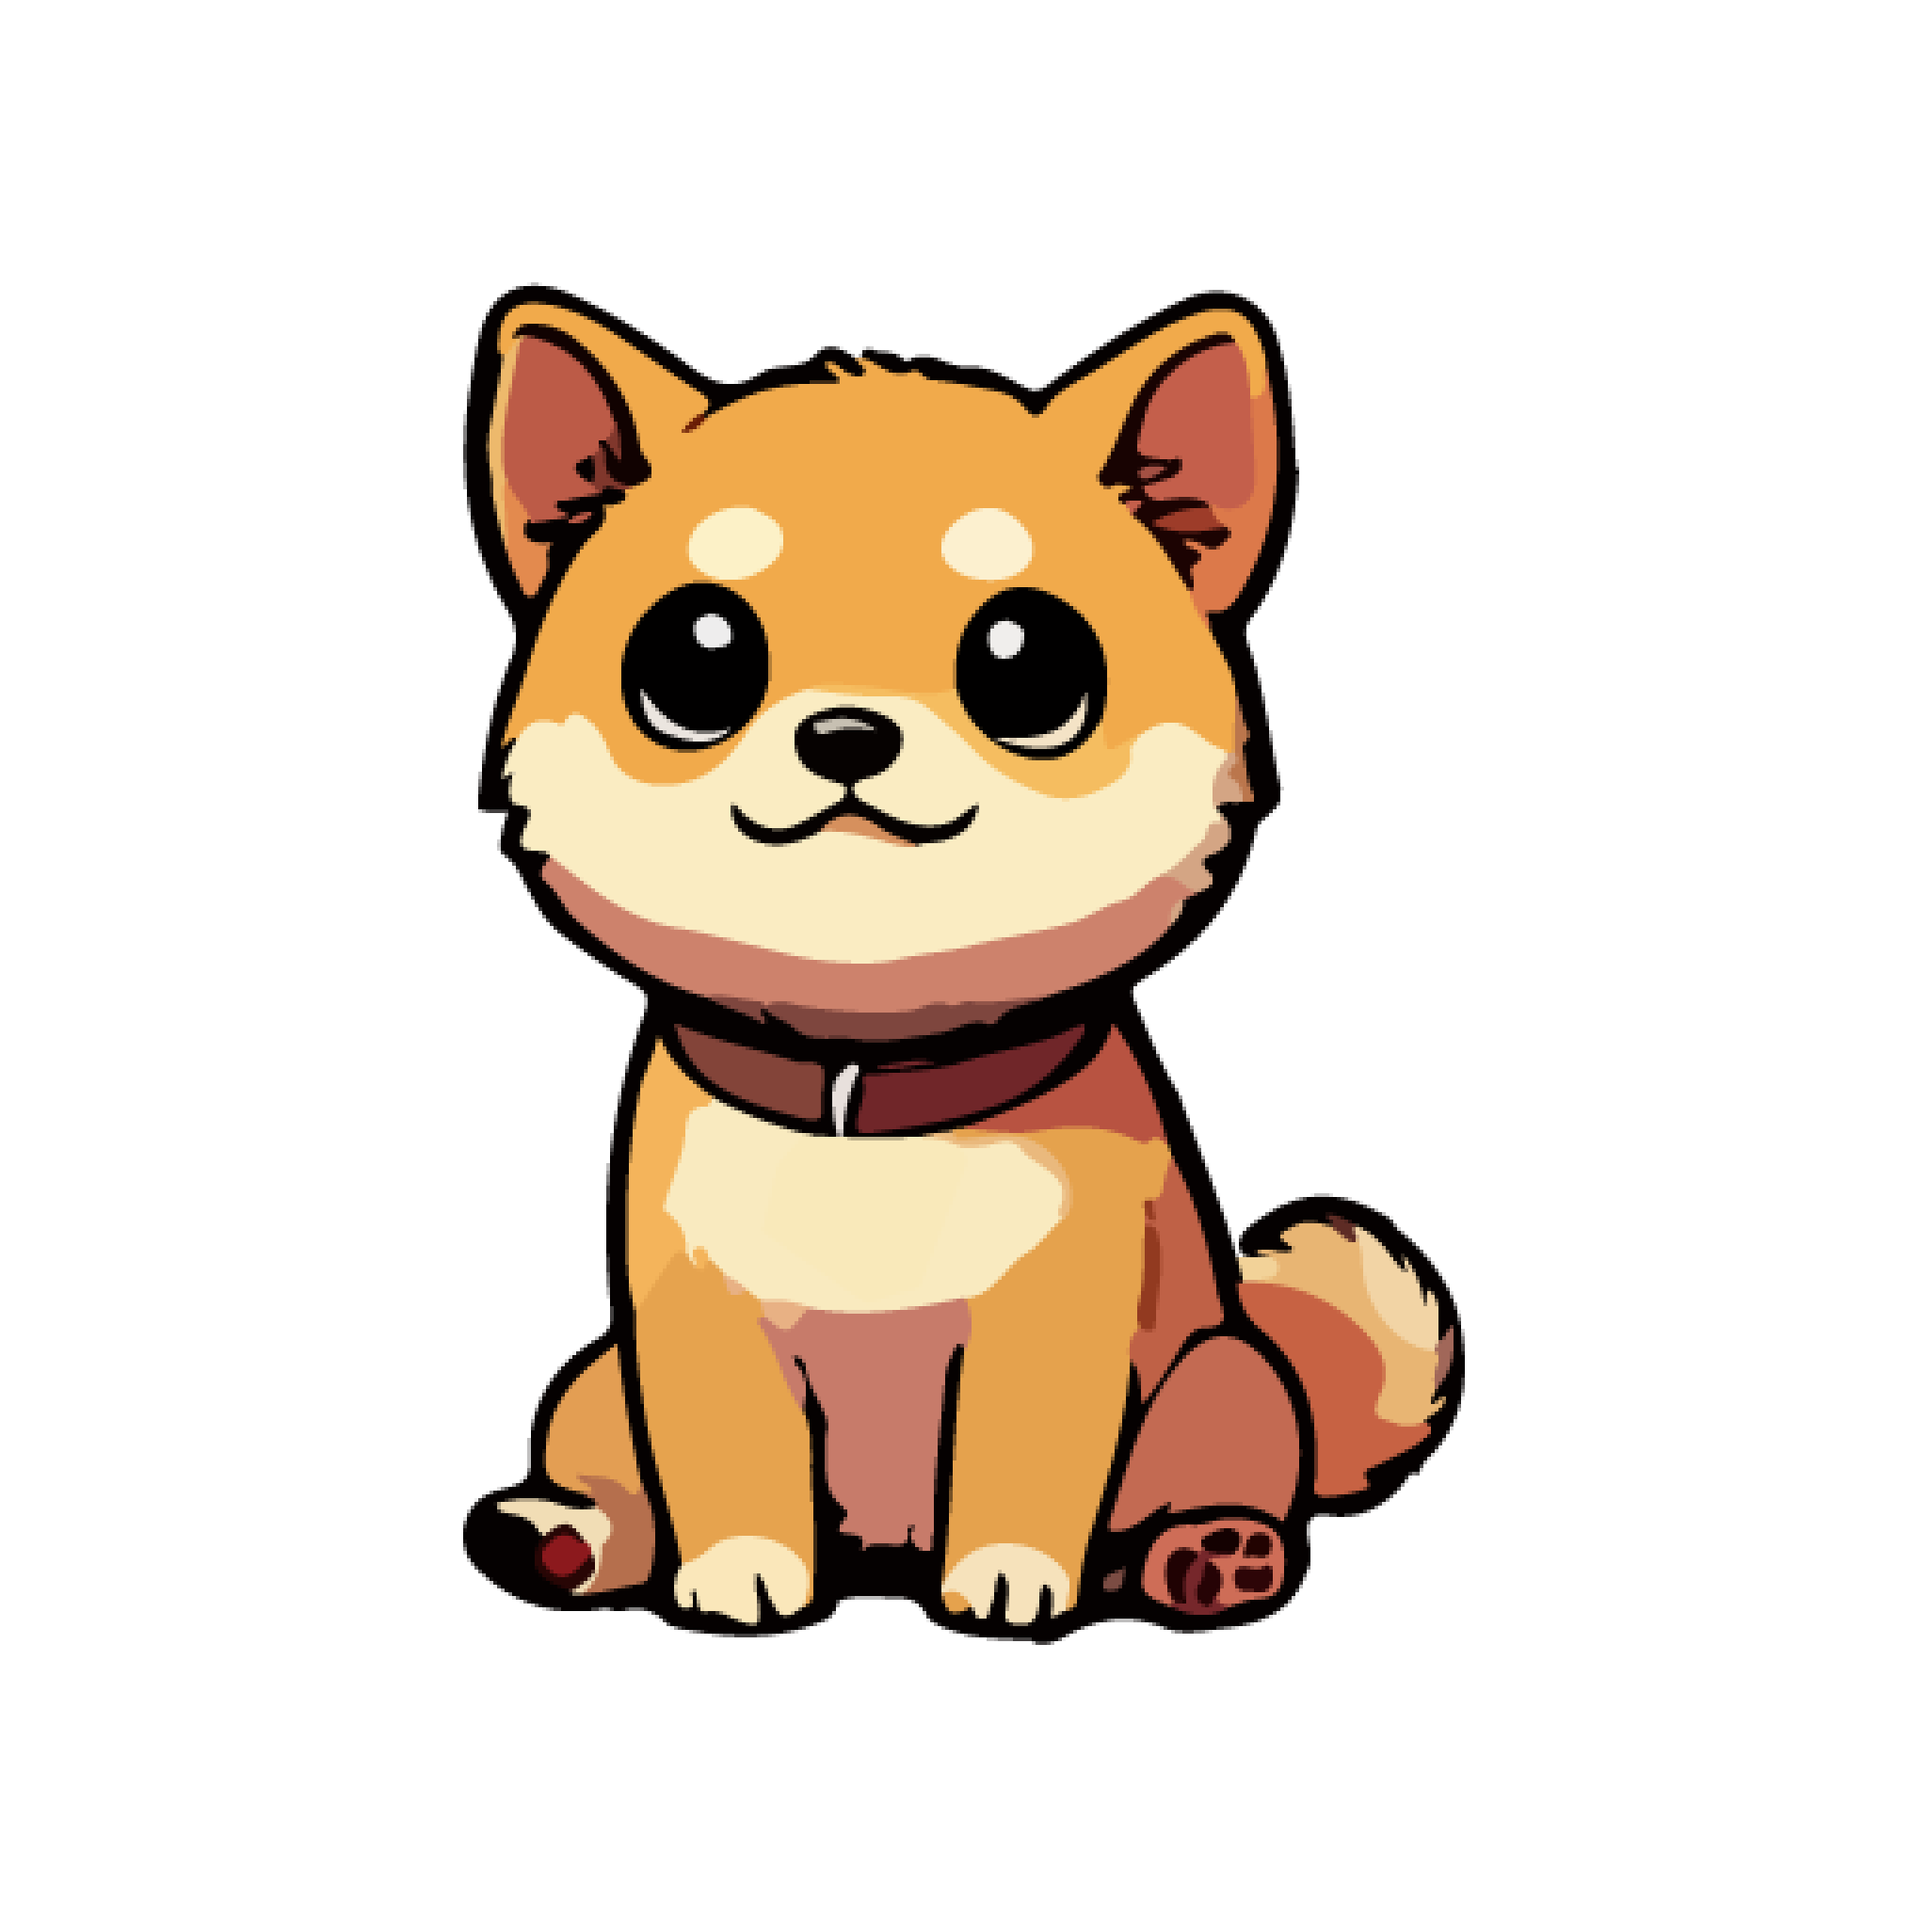
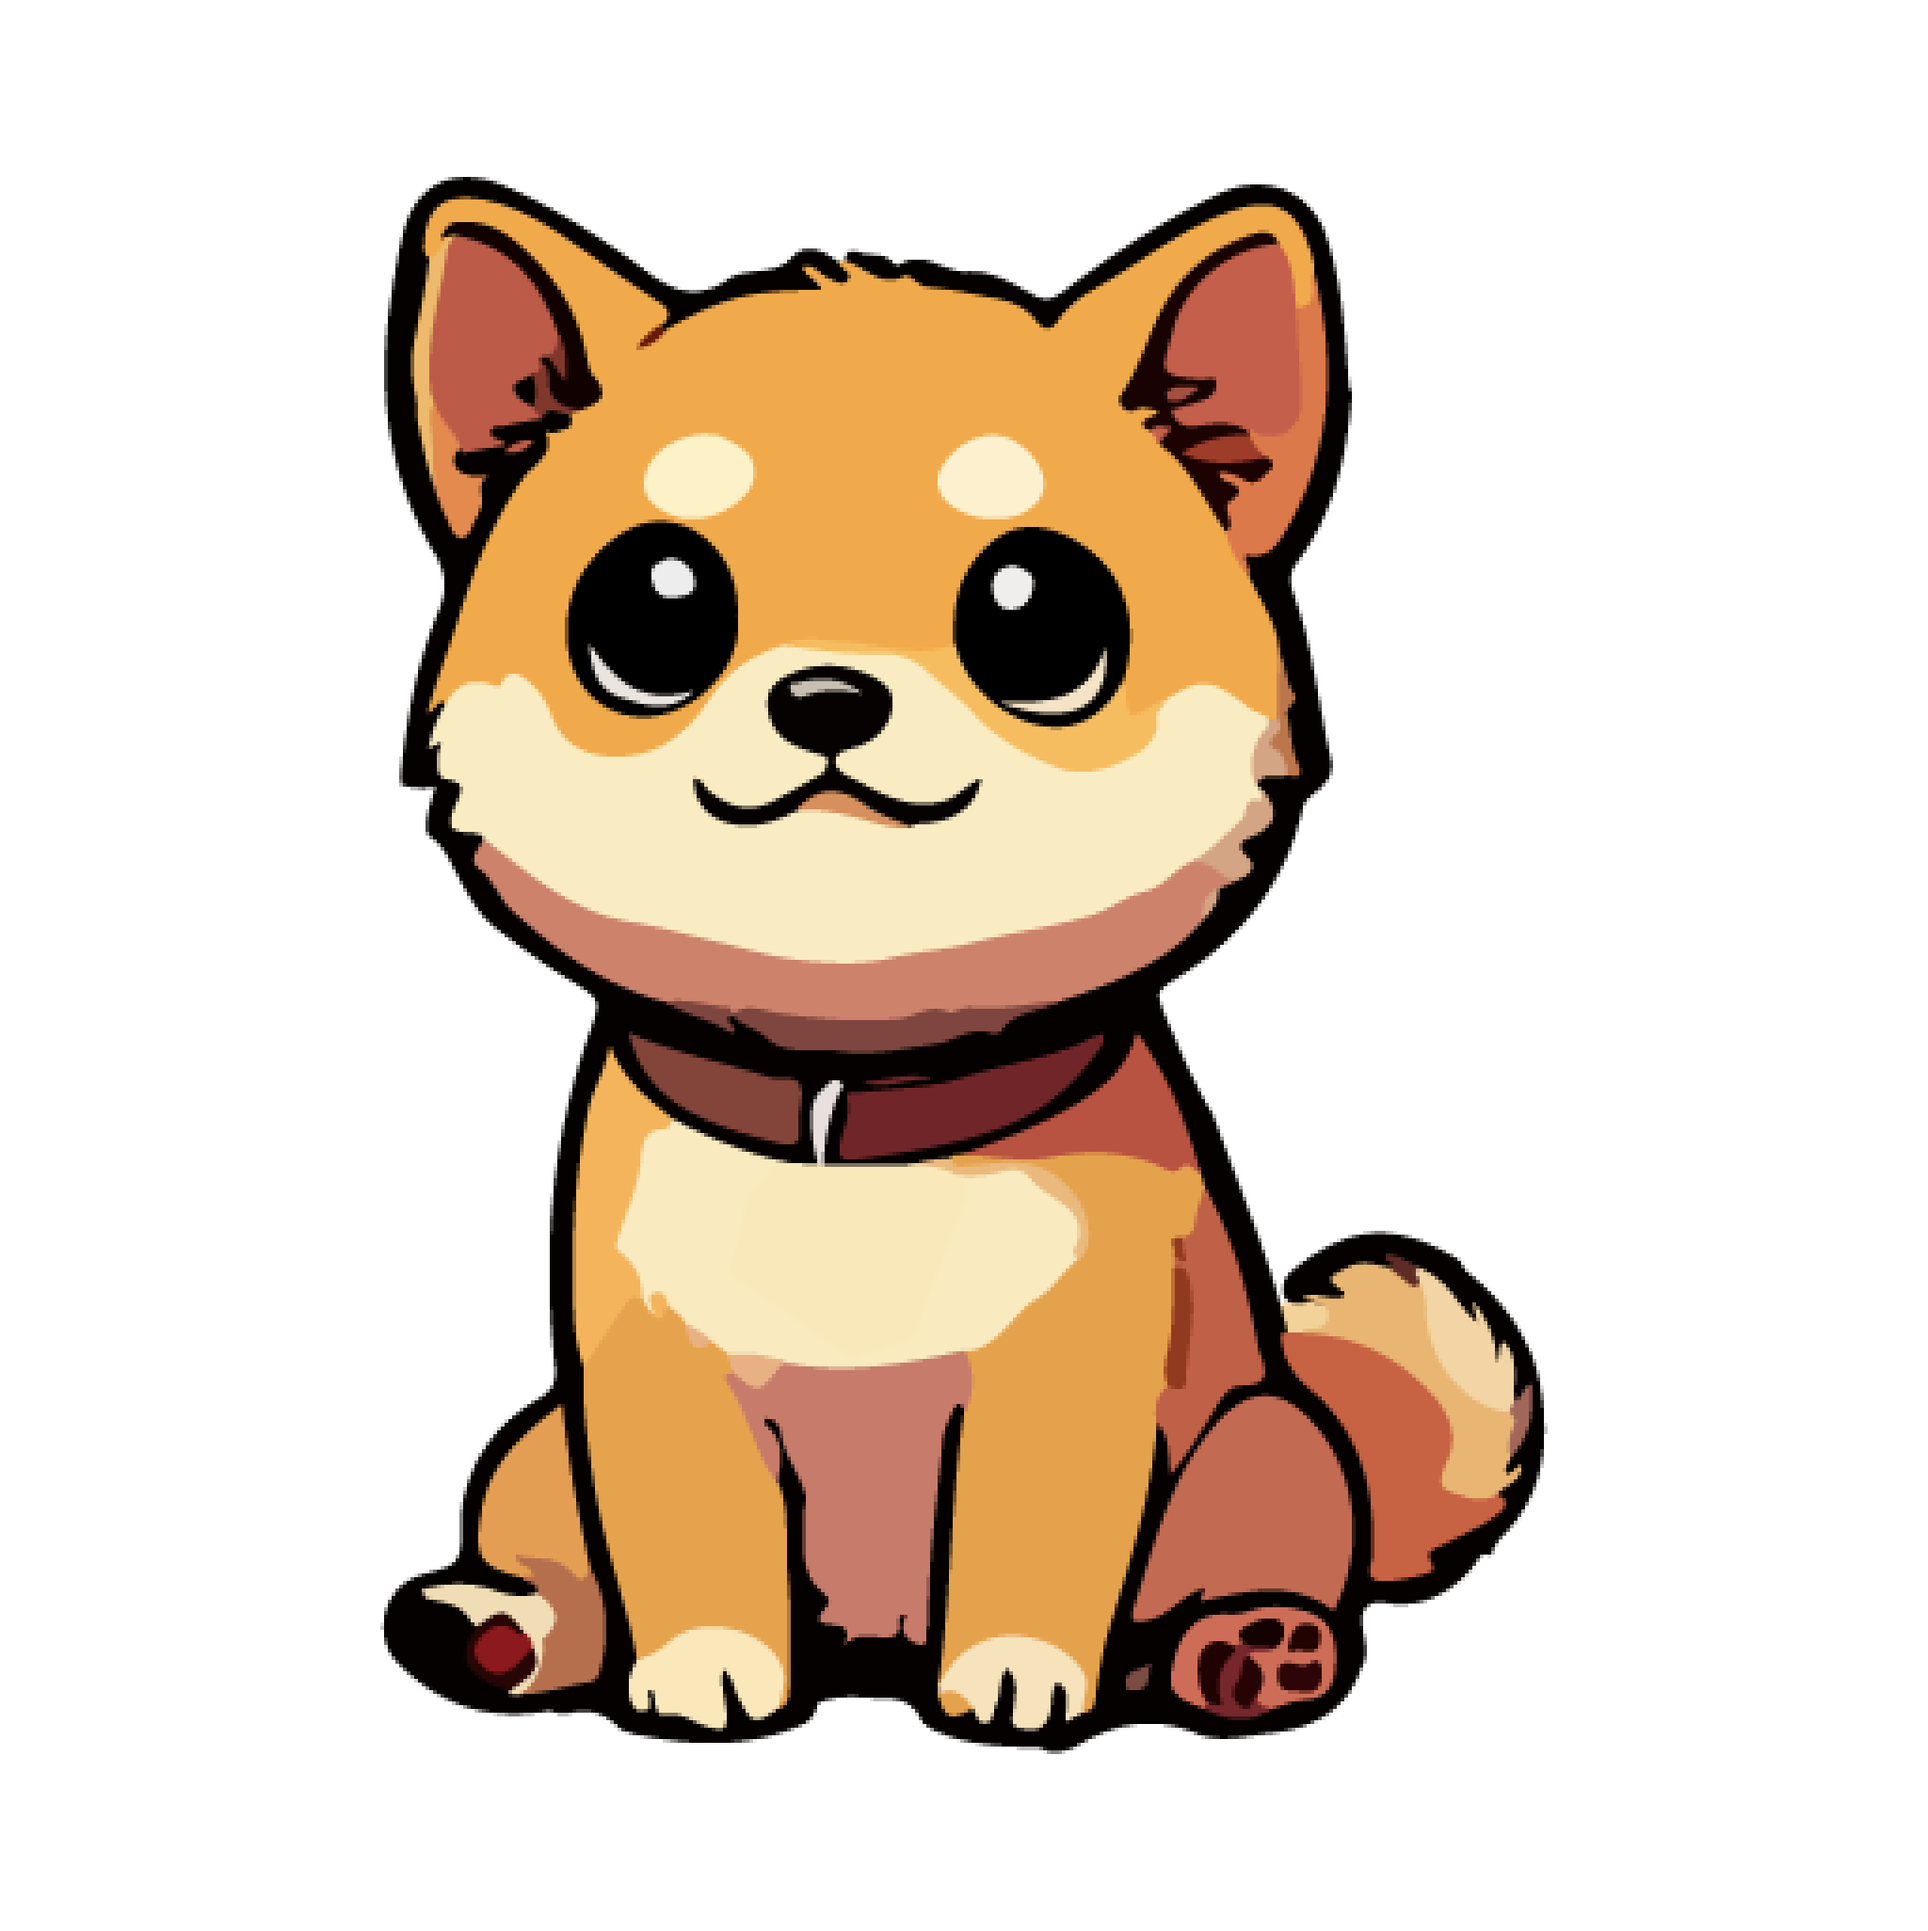
add charactor shadow

Changed region(s): [[0.1875, 0.0936, 0.8125, 0.9045]]

diff --git a/ic/src/pages/DiceEvent/index.tsx b/ic/src/pages/DiceEvent/index.tsx
@@ -126,8 +126,8 @@ const DiceEventPage: React.FC = () => {
           charactorImageSrc={charactorImageSrc}
           mainColorClassName={mainColorClassName}
         />
-        <div className="flex flex-col items-center justify-center w-48 h-36 md:w-40 md:h-44 relative prize-box overflow-visible z-10 gap-2">
-          <div className="absolute h-7 w-20 rounded-full border border-black bg-white flex items-center justify-center text-xs -top-4 z-20 font-medium box-border left-14 inset-2 ">
+        <div className="flex flex-col items-center justify-center w-48 h-36 md:w-96 md:h-44 relative prize-box overflow-visible z-10 gap-2">
+          <div className="absolute h-7 w-20 rounded-full border border-black bg-white flex items-center justify-center text-xs -top-4 z-20 font-medium box-border left-14 md:left-36 inset-2 ">
             Week 2
           </div>
           <img src={Images.SLSymbol} alt="token logo" className=" h-14 mt-2" />

diff --git a/ic/src/entities/User/components/UserLevel.tsx b/ic/src/entities/User/components/UserLevel.tsx
@@ -7,7 +7,7 @@ const UserLevel: React.FC<{
   mainColorClassName: string;
 }> = ({ userLv, charactorImageSrc, mainColorClassName }) => (
   <div
-    className={`flex flex-col items-center justify-center w-32 h-36 md:w-40 md:h-44 lv-box ${mainColorClassName}`}
+    className={`flex flex-col items-center justify-center w-32 h-36 md:w-48 md:h-44 lv-box ${mainColorClassName}`}
   >
     <img src={charactorImageSrc} className="w-24 h-24 md:w-32 md:h-32" />
     <div className="flex flex-row items-center w-full px-4 gap-2">

diff --git a/ic/src/features/DiceEvent/components/Board.tsx b/ic/src/features/DiceEvent/components/Board.tsx
@@ -29,6 +29,15 @@ const Board: React.FC<BoardProps> = ({
         y: { type: 'spring', stiffness: 300, damping: 15 },
       }}
     >
+      <div
+        className="absolute w-full h-full rounded-full bottom-0 left-1/2 transform -translate-x-1/2"
+        style={{
+          width: '70%',
+          height: '10%',
+          backgroundColor: 'rgba(0, 0, 0, 0.3)',
+          borderRadius: '50%',
+        }}
+      ></div>
       <img
         src={charactorImageSrc}
         alt="userLv20"
